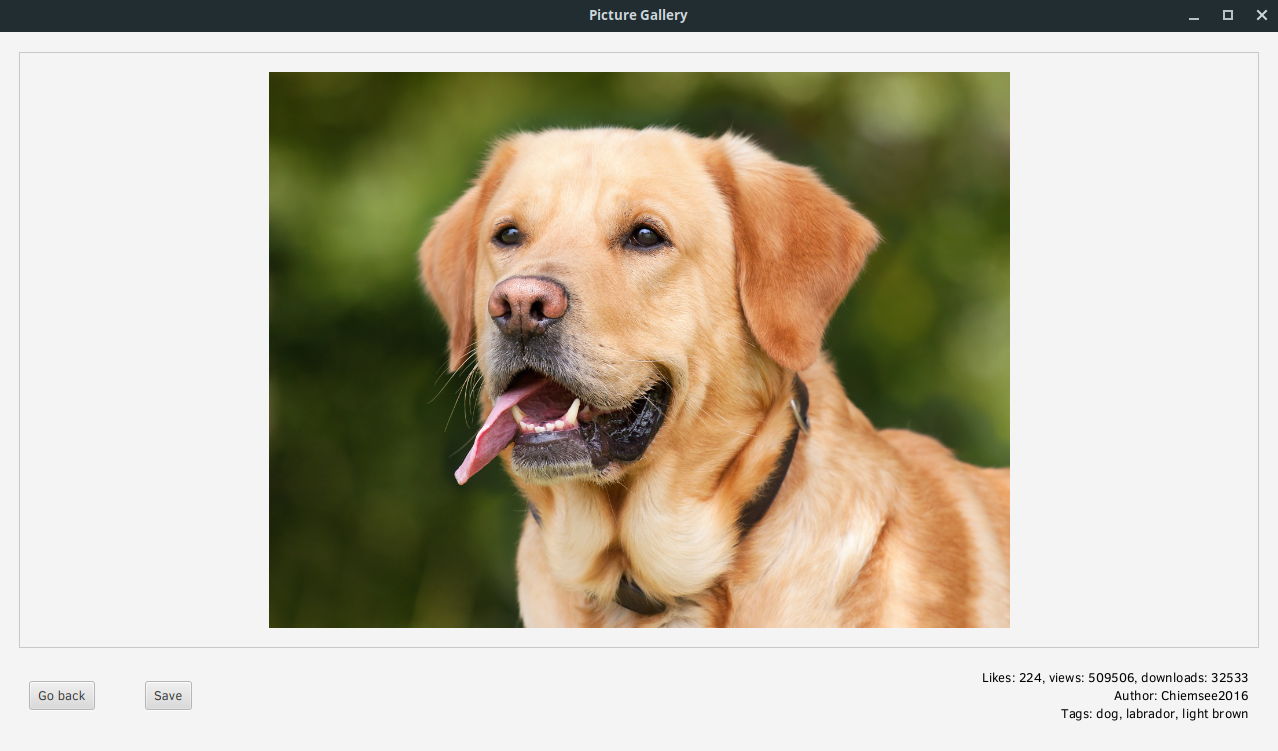
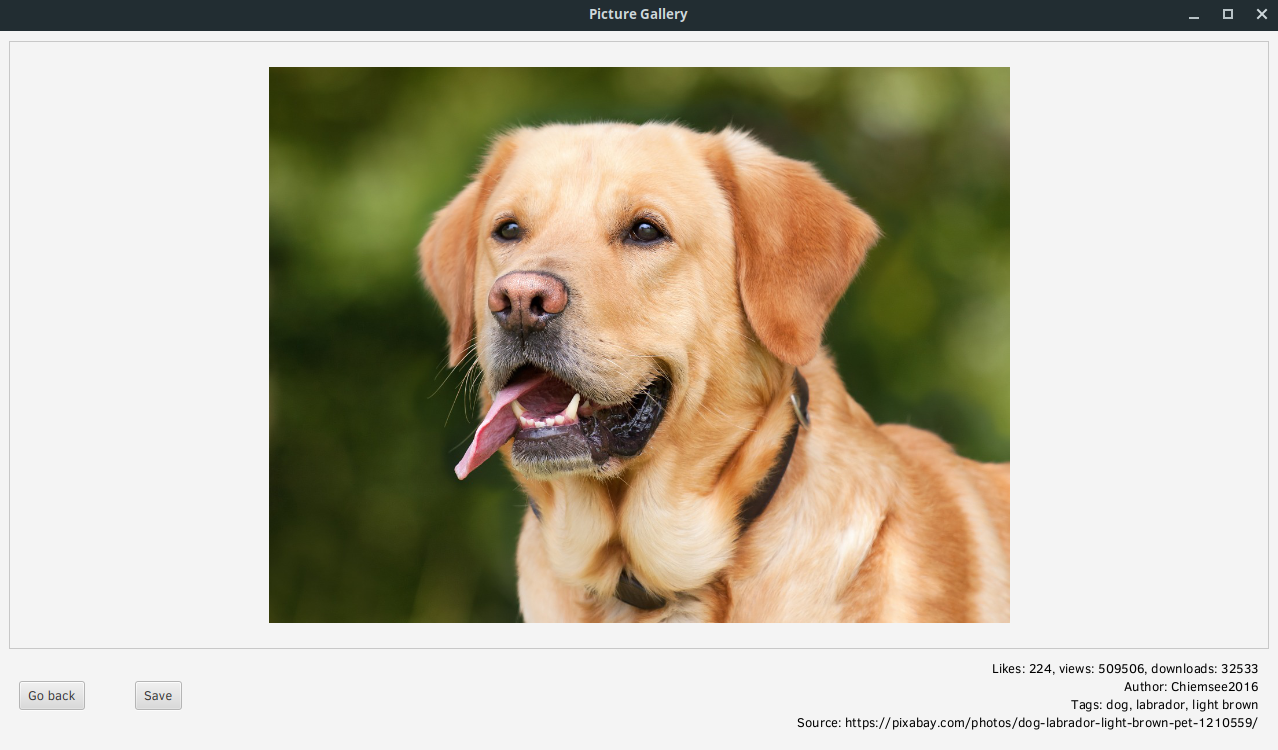
Added source info to picture details and updated readme

diff --git a/src/main/java/com/spietras/picgallery/picdetails/PicDetailsController.java b/src/main/java/com/spietras/picgallery/picdetails/PicDetailsController.java
@@ -45,6 +45,8 @@ public class PicDetailsController
     private Text authorText;
     @FXML
     private Text tagsText;
+    @FXML
+    private Text sourceText;
 
     private double originalWidth;
 
@@ -60,6 +62,7 @@ public class PicDetailsController
         statsText.setText("");
         authorText.setText("");
         tagsText.setText("");
+        sourceText.setText("");
         downloadAndSetPicture();
     }
 
@@ -99,6 +102,7 @@ public class PicDetailsController
                 model.getData().getDownloads());
         authorText.setText("Author: " + model.getData().getUser());
         tagsText.setText("Tags: " + model.getData().getTags());
+        sourceText.setText("Source: " + model.getData().getSourceURL());
     }
 
     private void handleImageLoadingException(IOException e)

diff --git a/src/main/java/com/spietras/picgallery/models/picdata/pixabayData/PixabayPictureData.java b/src/main/java/com/spietras/picgallery/models/picdata/pixabayData/PixabayPictureData.java
@@ -27,6 +27,9 @@ public class PixabayPictureData implements PictureData
     @SerializedName("user")
     @Expose
     private String user;
+    @SerializedName("pageURL")
+    @Expose
+    private String pageURL;
 
     @Override
     public String getTags()
@@ -68,5 +71,11 @@ public class PixabayPictureData implements PictureData
     public String getUser()
     {
         return user;
+    }
+
+    @Override
+    public String getSourceURL()
+    {
+        return pageURL;
     }
 }

diff --git a/src/main/java/com/spietras/picgallery/models/picdata/PictureData.java b/src/main/java/com/spietras/picgallery/models/picdata/PictureData.java
@@ -15,4 +15,6 @@ public interface PictureData
     int getLikes();
 
     String getUser();
+
+    String getSourceURL();
 }

diff --git a/Readme.md b/Readme.md
@@ -6,7 +6,7 @@ Picture gallery app that searches images by query and displays them in tiles
 
 In order to run this app you have to install **Java 11**, which you can get from [**here**](https://www.oracle.com/technetwork/java/javase/downloads/index.html "Oracle") or [**here**](https://openjdk.java.net/projects/jdk/ "OpenJDK").
 
-You can download the latest release of the app from [**here**](https://github.com/spietras/PicGallery/releases/tag/v1.0).
+You can download the latest release of the app from [**here**](https://github.com/spietras/PicGallery/releases/latest).
 
 ---
 
